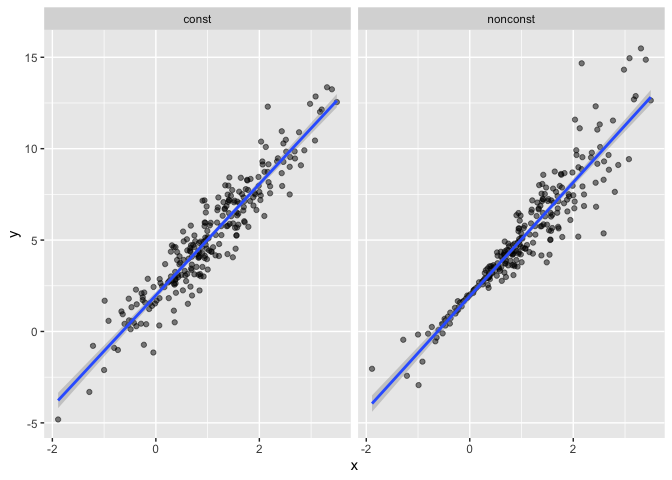
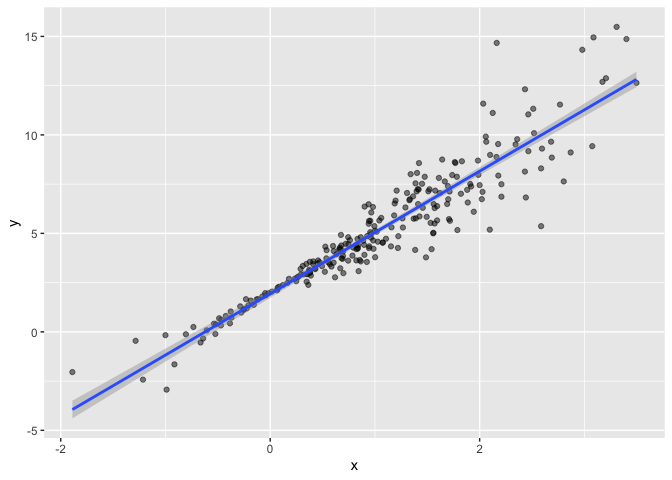
bootstrap on simulated data

diff --git a/bootstrapping.md b/bootstrapping.md
@@ -24,7 +24,15 @@ sim_df_nonconst =
     y = 2 + 3 * x + error
   )
 
+sim_df_nonconst |> 
+  ggplot(aes(x=x,y=y))+geom_point(alpha=.5) + stat_smooth(method="lm")
+```
 
+    ## `geom_smooth()` using formula = 'y ~ x'
+
+![](bootstrapping_files/figure-gfm/unnamed-chunk-2-1.png)<!-- -->
+
+``` r
 sim_df = 
   bind_rows(const = sim_df_const, nonconst = sim_df_nonconst, .id = "data_source")
 
@@ -37,7 +45,7 @@ sim_df |>
 
     ## `geom_smooth()` using formula = 'y ~ x'
 
-![](bootstrapping_files/figure-gfm/unnamed-chunk-2-1.png)<!-- -->
+![](bootstrapping_files/figure-gfm/unnamed-chunk-2-2.png)<!-- -->
 
 # fit some linear models
 
@@ -68,3 +76,135 @@ sim_df_nonconst |>
 - but we know that non-constant error ds does not meet linear reg
   assumptions, so we cannot trust the CI coming out from a linear reg
   model.
+
+# draw and analyze a bootstrap sample
+
+start w a little function
+
+``` r
+boot_sample = function(df){
+  sample_frac(df, replace = TRUE)
+}
+```
+
+- `sample_frac()` know how to sample n rows from a table. the defaulted
+  `sample_frac()` is sampling size 100% as large as the df
+  - `replace = TRUE`: each sampled element is put back into the
+    population before the next element is selected – the same element
+    can be selected more than once in the sample.
+  - if `replace = FALSE`: each sampled element is unique, meaning once
+    an element is selected, it is not available for selection again. The
+    next sampling is done from the remaining elements. This is the
+    default behavior for sampling functions in R. — we do not want this
+    here.
+
+let’s see how it works!
+
+``` r
+sim_df_nonconst |> 
+  boot_sample() |> 
+  ggplot(aes(x=x, y=y)) + geom_point(alpha = 0.5) + stat_smooth(method = "lm")
+```
+
+    ## `geom_smooth()` using formula = 'y ~ x'
+
+![](bootstrapping_files/figure-gfm/unnamed-chunk-5-1.png)<!-- --> \*
+from the scatterplot, we can see some points are darker and some are
+lighter. the darker ones means they are picked many times through the
+`boot_sample function` we just defined
+
+# draw a lot of samples and analyze them
+
+``` r
+boot_straps = 
+  tibble(strap_number = 1:1000) |> 
+  mutate(
+    strap_sample = map(strap_number, \(i) boot_sample(sim_df_nonconst))
+  )
+
+# check the 1st tibble of the output
+boot_straps |> 
+  pull(strap_sample) |> 
+  nth(1) |> 
+  arrange(x)
+```
+
+    ## # A tibble: 250 × 3
+    ##         x   error       y
+    ##     <dbl>   <dbl>   <dbl>
+    ##  1 -1.89   1.62   -2.04  
+    ##  2 -1.89   1.62   -2.04  
+    ##  3 -1.21  -0.781  -2.43  
+    ##  4 -1.21  -0.781  -2.43  
+    ##  5 -1.00   0.832  -0.169 
+    ##  6 -0.989 -1.97   -2.93  
+    ##  7 -0.914 -0.908  -1.65  
+    ##  8 -0.606 -0.106   0.0774
+    ##  9 -0.536  0.0227  0.413 
+    ## 10 -0.524 -0.536  -0.106 
+    ## # ℹ 240 more rows
+
+- `strap_sample = map(strap_number, \(i) boot_sample(sim_df_nonconst))`:
+  `boot_sample()` does not really depend on `i`, this is just saying
+  that for each iteration and strap_number, run exactly this line of
+  code.
+
+now do the `lm` fit
+
+``` r
+boot_results = 
+  boot_straps |> 
+  mutate(
+    models = map(strap_sample, \(df) lm(y~x, data = df)),
+    results = map(models, broom::tidy)
+  ) |> 
+  select(strap_number, results) |> 
+  unnest(results)
+```
+
+try to summarise these results – get a bootstrap SE
+
+``` r
+boot_results |> 
+  group_by(term) |> 
+  summarise(
+    se = sd(estimate)
+  ) |> 
+  knitr::kable()
+```
+
+| term        |        se |
+|:------------|----------:|
+| (Intercept) | 0.0747211 |
+| x           | 0.1009731 |
+
+look at the distribution
+
+``` r
+boot_results |> 
+  ggplot(aes(x = estimate)) + geom_density() + facet_grid(.~term)
+```
+
+![](bootstrapping_files/figure-gfm/unnamed-chunk-9-1.png)<!-- -->
+
+can i construct a CI?
+
+``` r
+boot_results |> 
+  group_by(term) |> 
+  summarise(
+    ci_lower = quantile(estimate, 0.025),
+    ci_upper = quantile(estimate, 0.975)
+  ) 
+```
+
+    ## # A tibble: 2 × 3
+    ##   term        ci_lower ci_upper
+    ##   <chr>          <dbl>    <dbl>
+    ## 1 (Intercept)     1.79     2.08
+    ## 2 x               2.91     3.31
+
+- if you are in a case where you have the parameter estimate
+  distribution doesn’t follow a normal distribution, and it is kind of
+  skewed, then you might need more bootstrap samples to construct that
+  CI – the \# of bootstrap does not really depend on sample size
